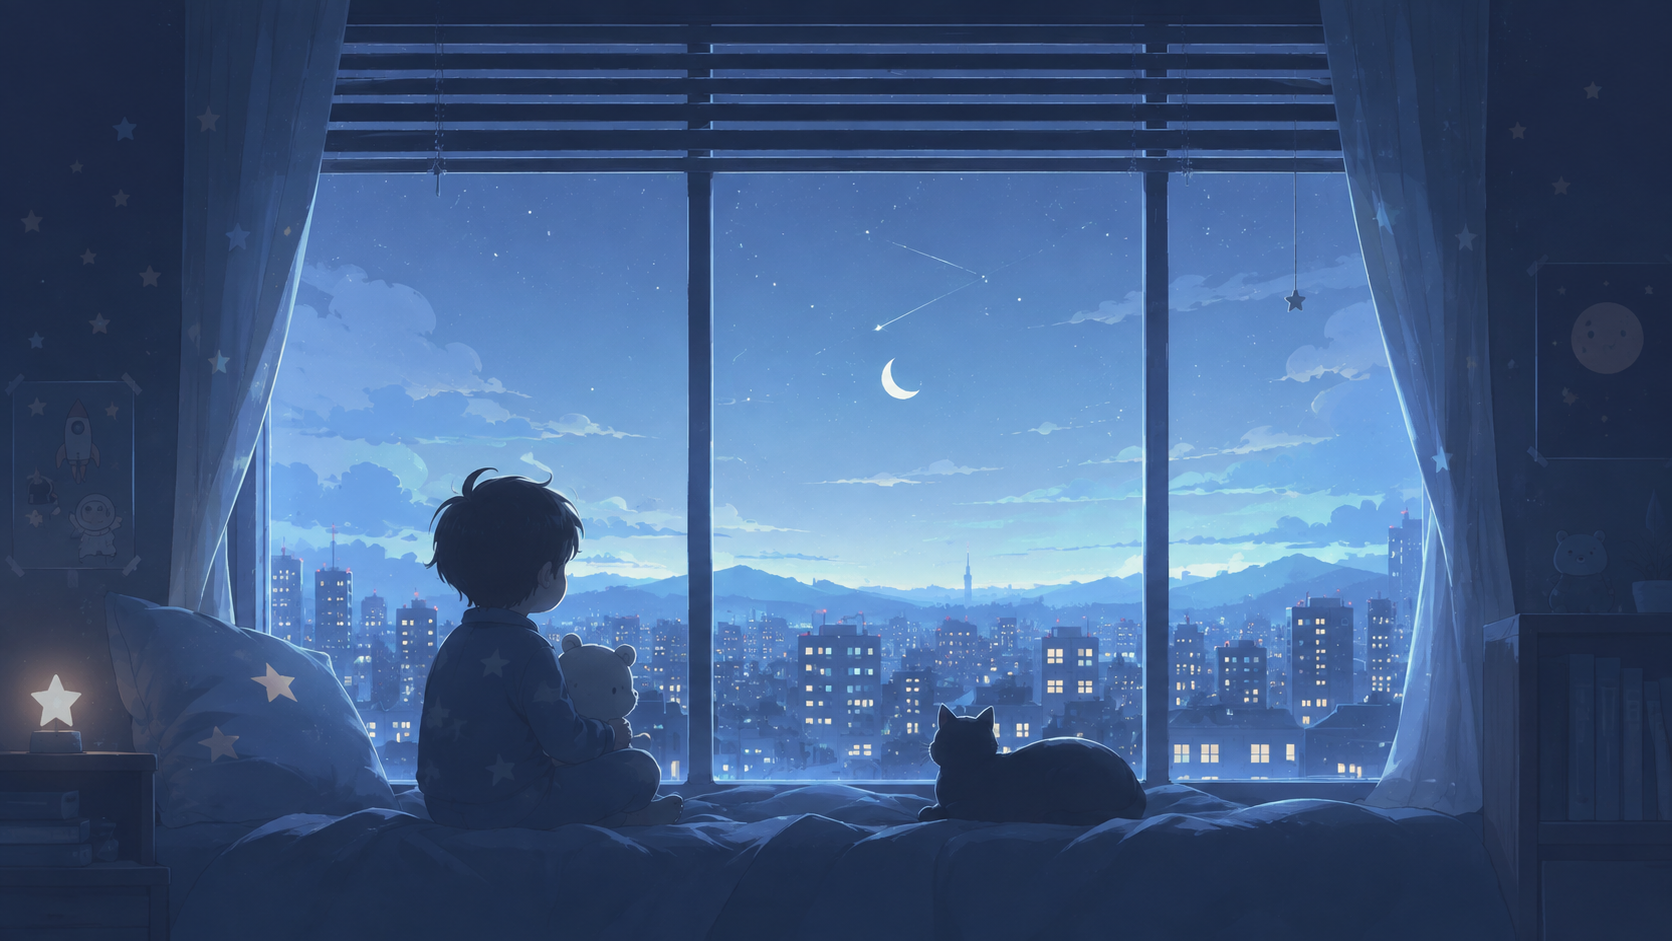
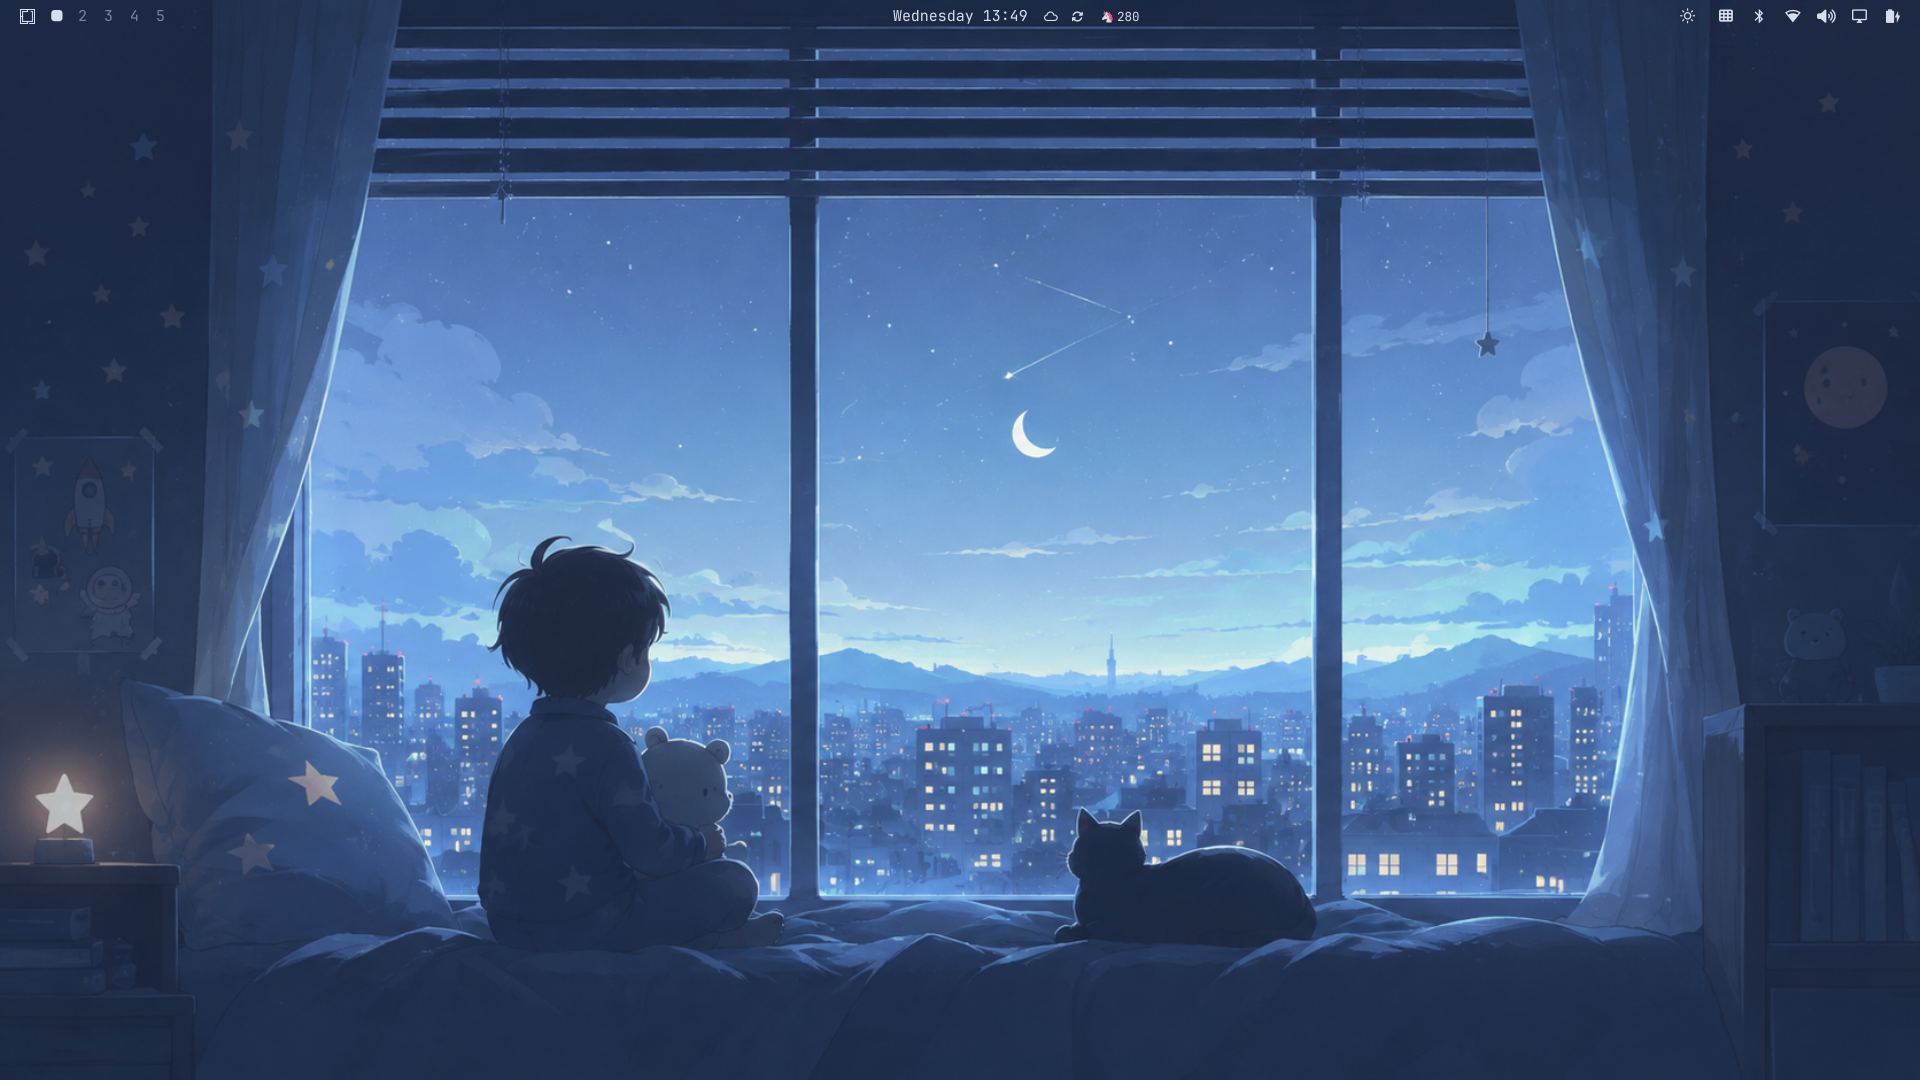
Replace placeholder preview with real desktop screenshots (nightscape, ethereal, nighthawk)

diff --git a/README.md b/README.md
@@ -4,7 +4,7 @@ A calm, starry **dark** theme for kids: the cool, dependable **Nord** palette pa
 
 ![Preview](preview.png)
 
-> The preview is a placeholder (the wallpaper itself). Replace it with a real desktop screenshot after installing.
+> The preview is a real desktop screenshot. `preview-ethereal.png` and `preview-nighthawk.png` show the theme on the other wallpapers.
 
 ## Install
 
